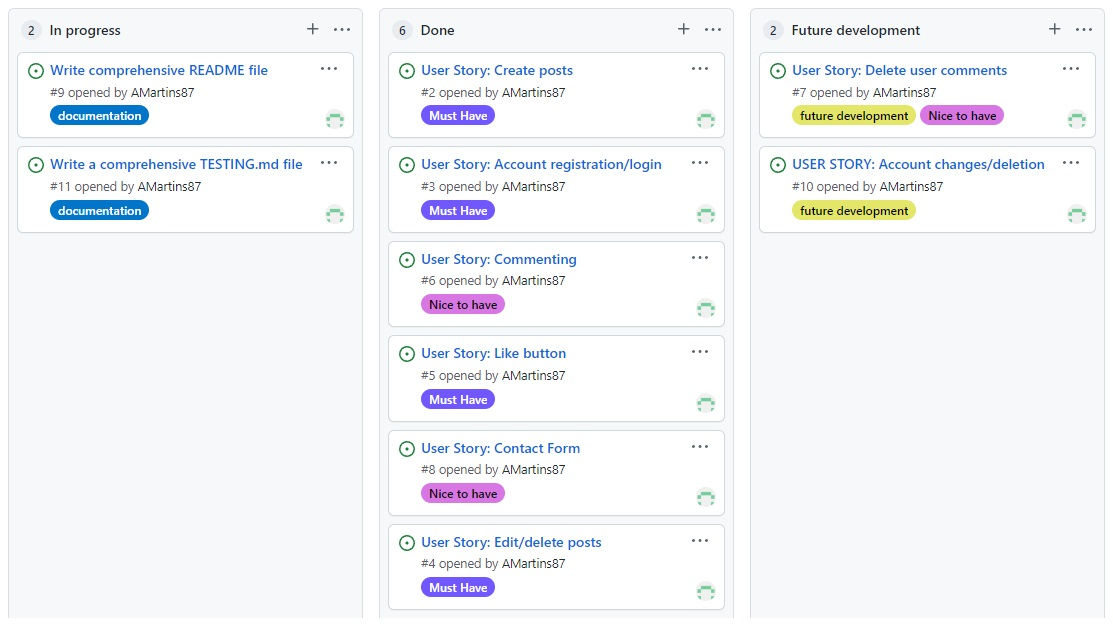
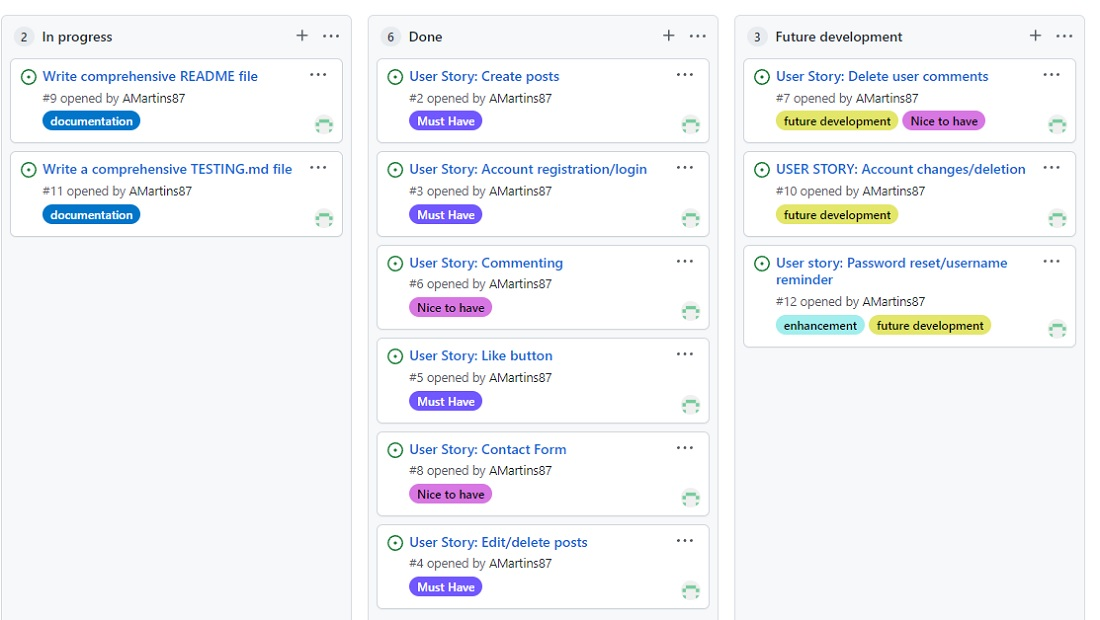
Upload amended kanban board image and write up Future Development section in README.md file

diff --git a/README.md b/README.md
@@ -33,6 +33,16 @@ User stories were labelled as **Must Have**, **Nice to have** and later I reated
 
 ![Kanban](media/images/kanban_project_issues.JPG)
 
+## **Future development**
+
+As listed on my Kanban board, I'd to implement few new features in a future. One of them being password and usernam reset function in case the site users forget these. 
+
+I would like for users to be able to amend their account details as well as be able to delete their account. 
+
+And lastly, I would also like to be able delete user comments if they would against published community guidelines.
+
+---
+
 # **FEATURES**
 ## **Main Page**
 - Navbar (on every page for ease of navigation)
